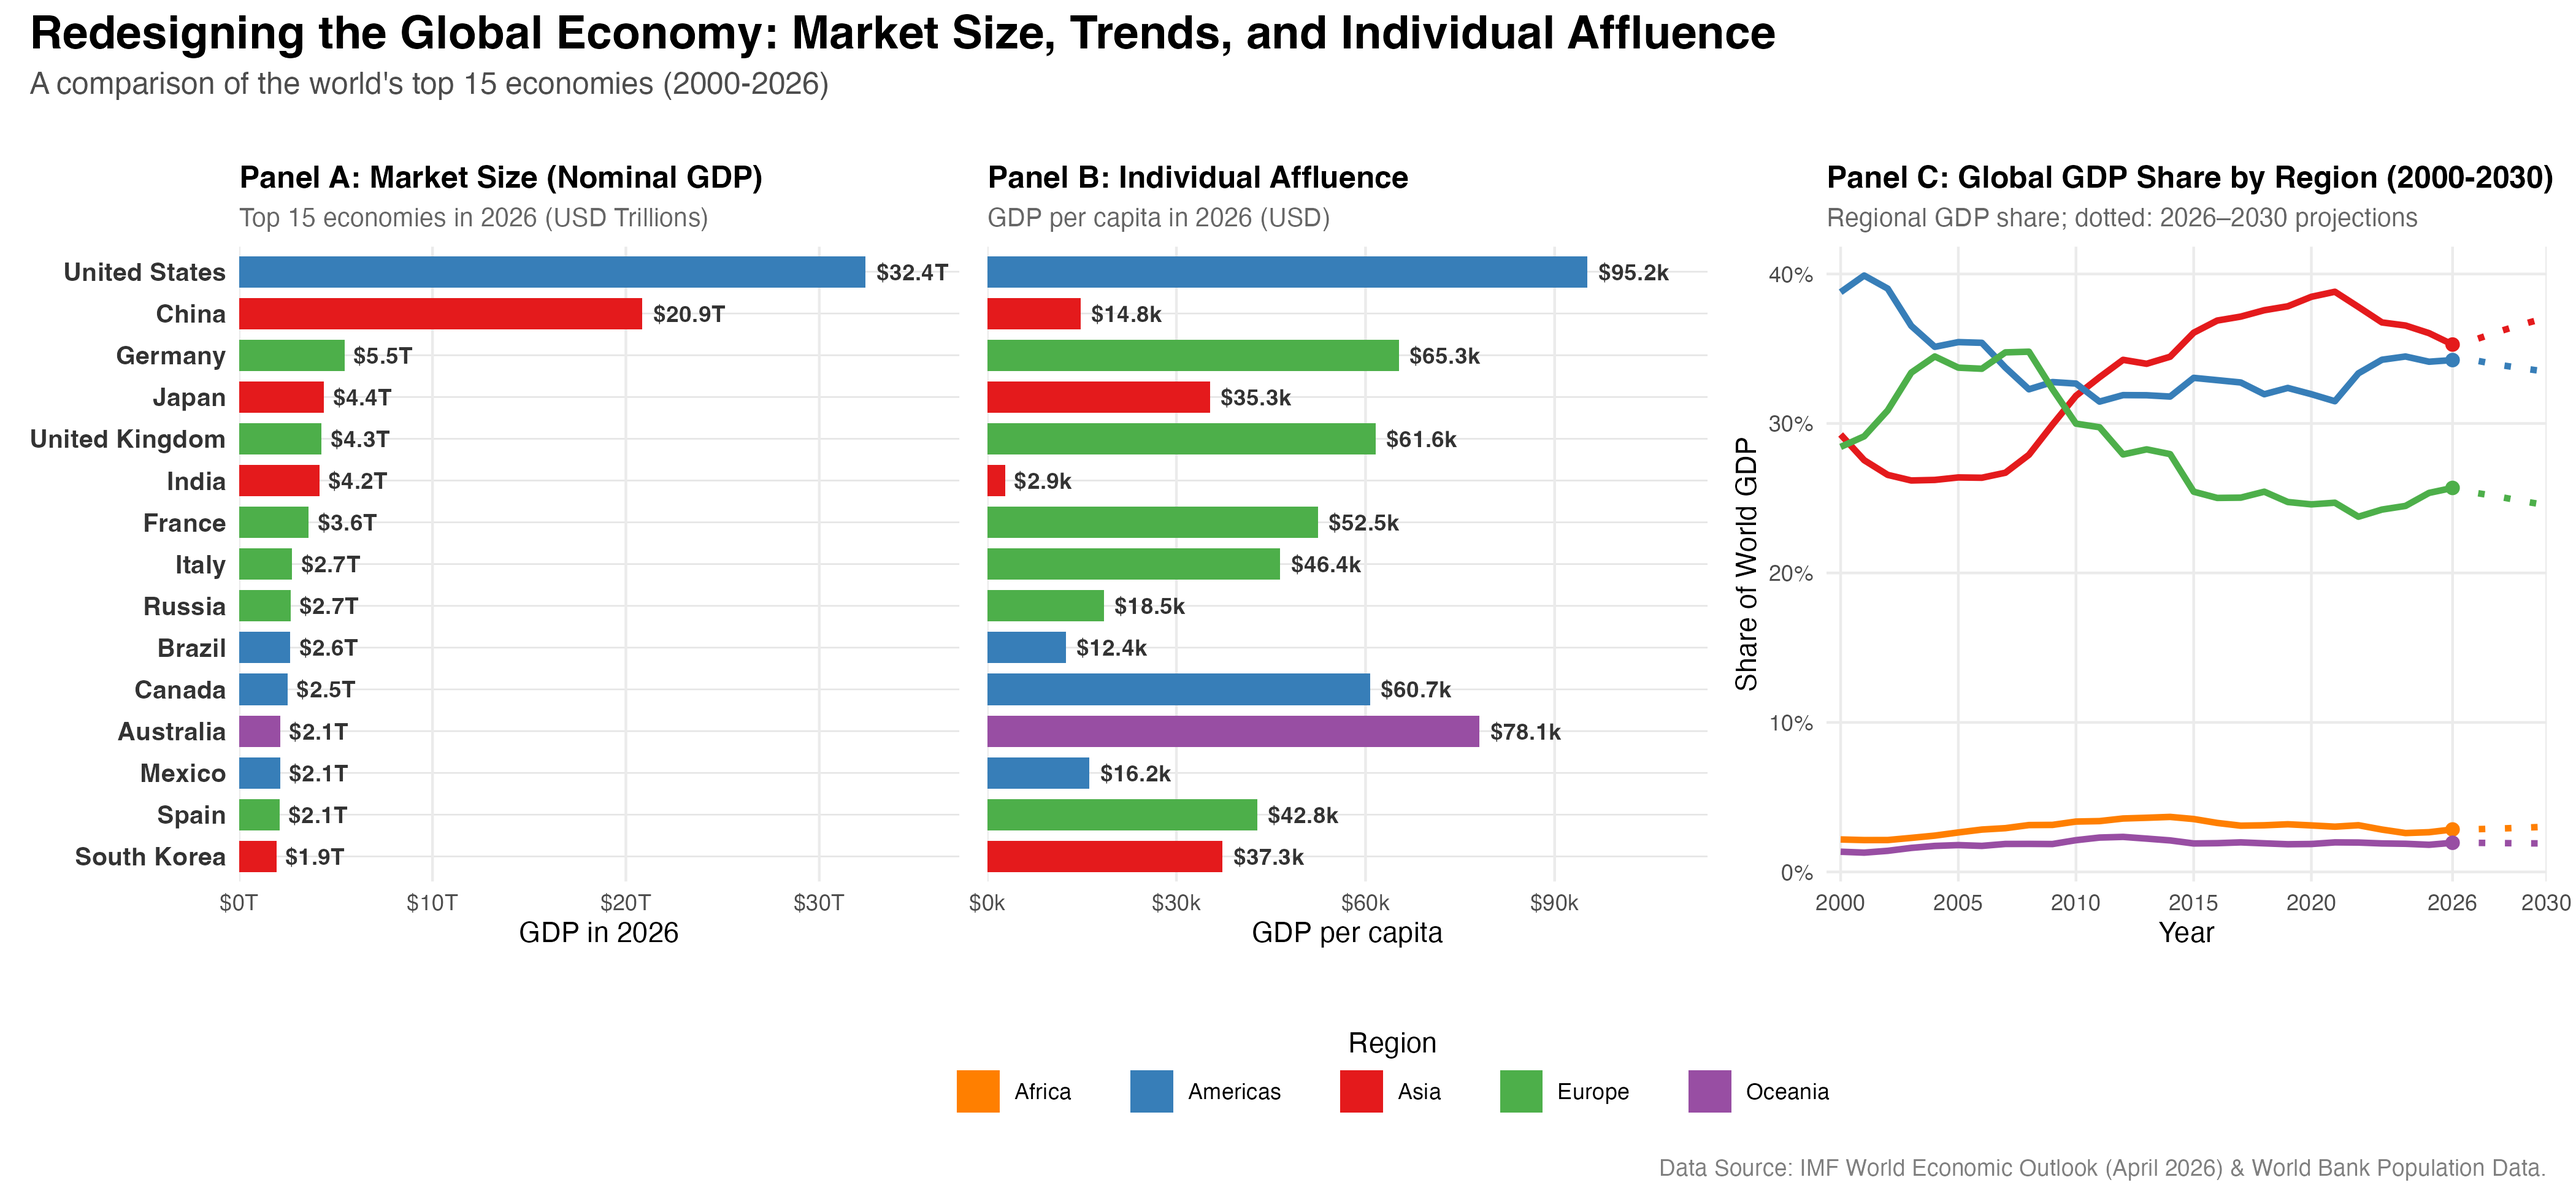
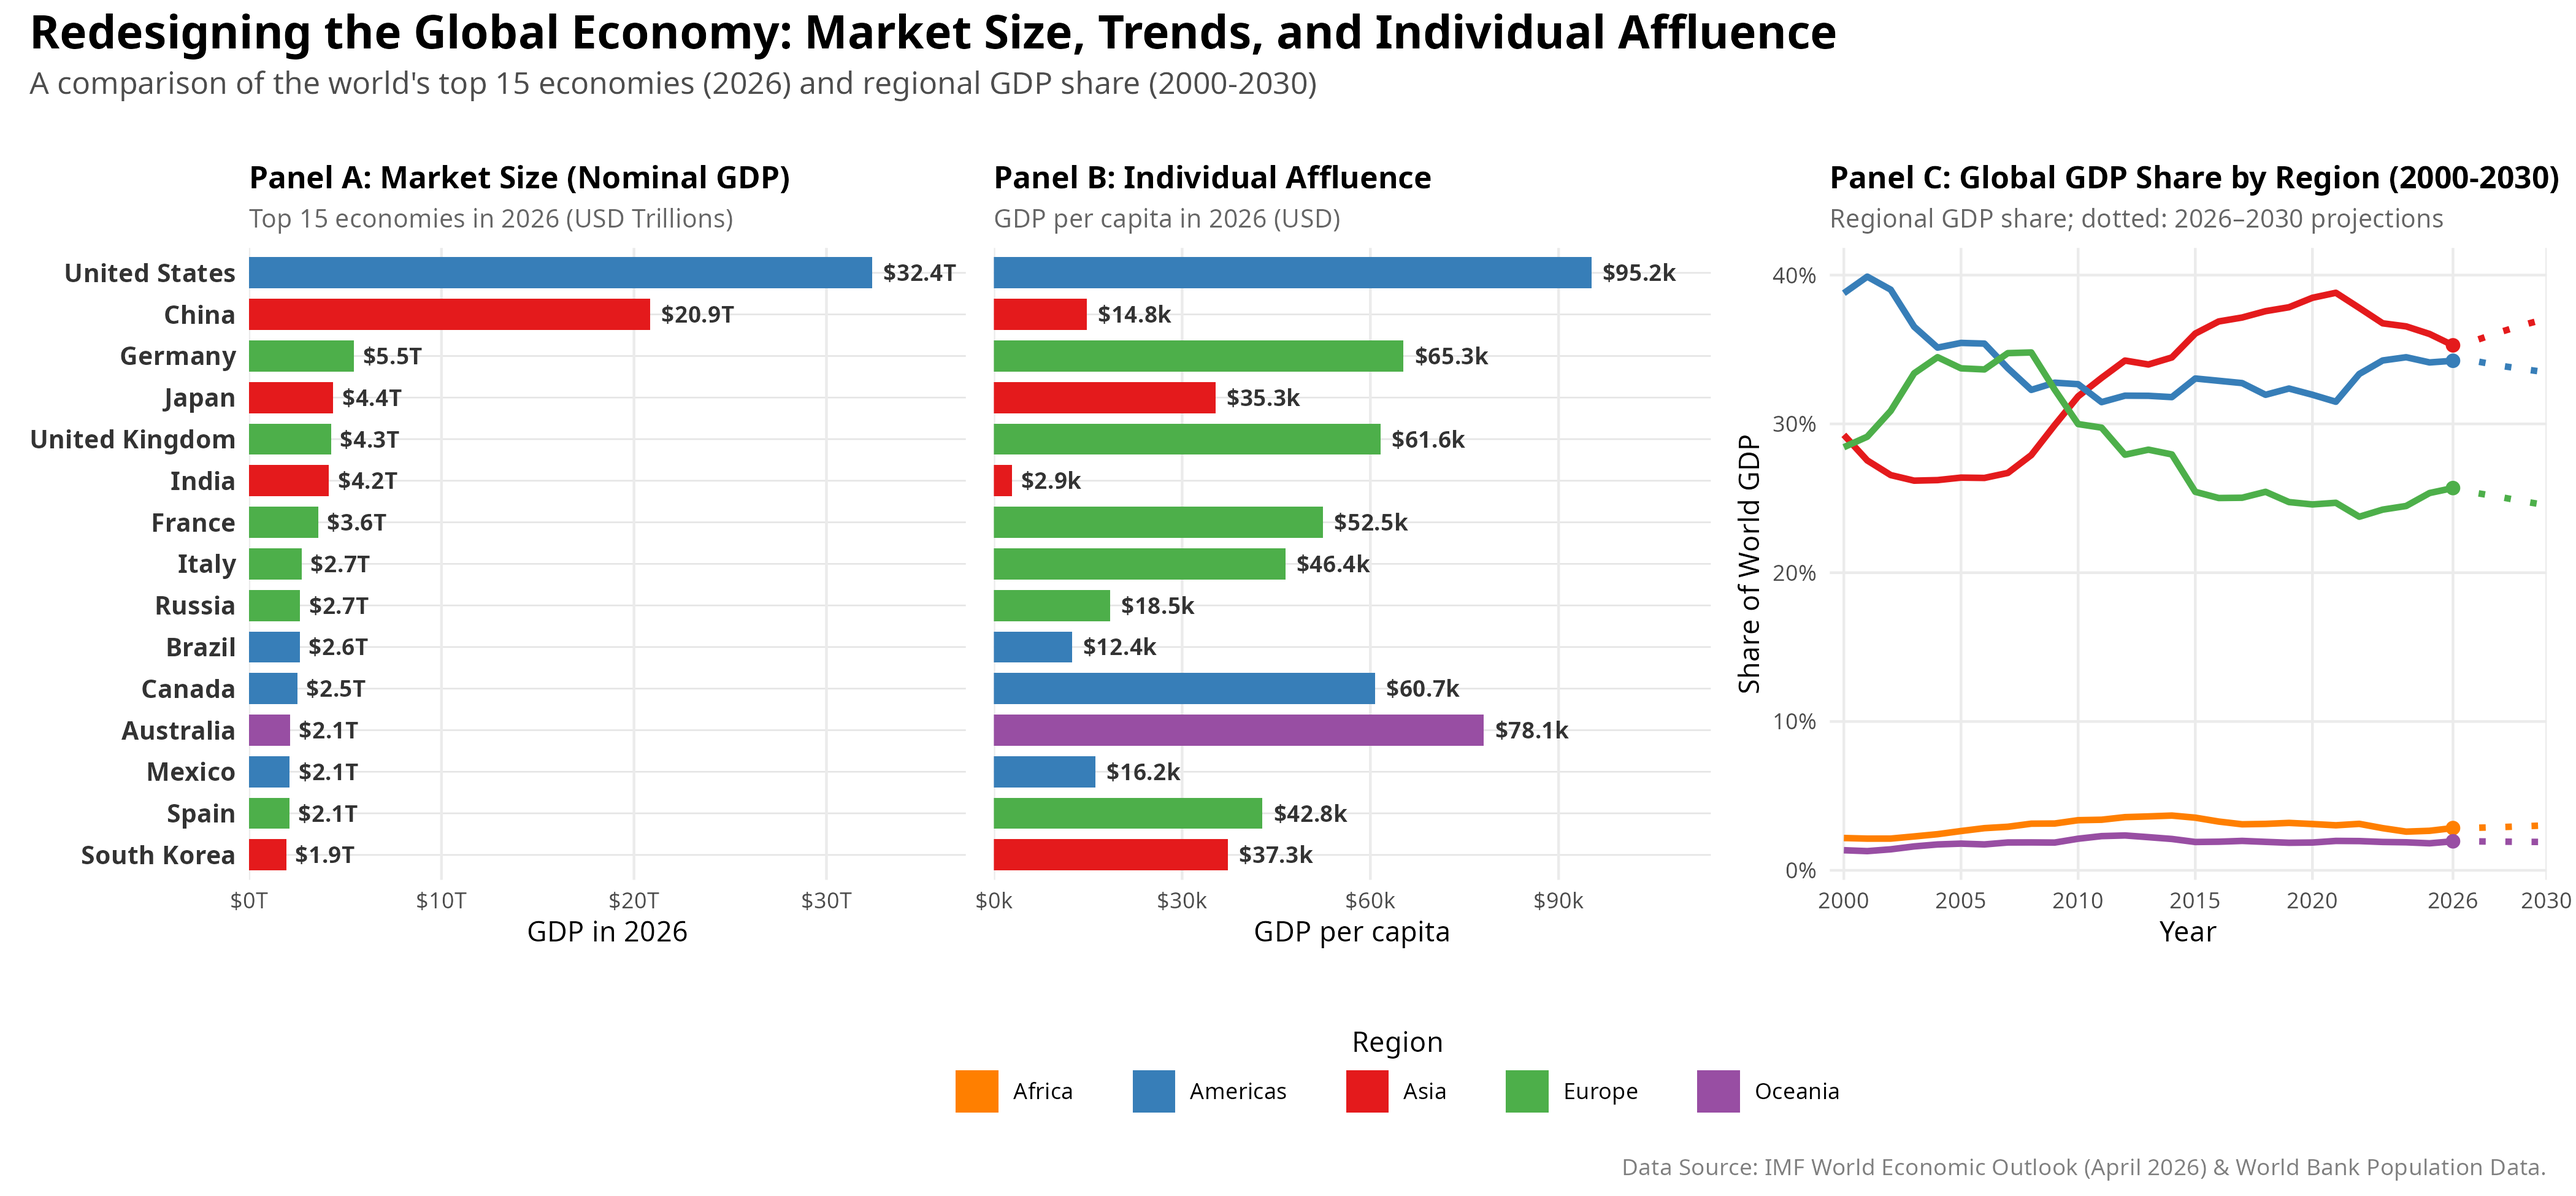
qmd update

diff --git a/gdp_redesign.html b/gdp_redesign.html
@@ -2,7 +2,7 @@
 <html xmlns="http://www.w3.org/1999/xhtml" lang="en" xml:lang="en"><head>
 
 <meta charset="utf-8">
-<meta name="generator" content="quarto-1.9.37">
+<meta name="generator" content="quarto-1.9.38">
 
 <meta name="viewport" content="width=device-width, initial-scale=1.0, user-scalable=yes">
 
@@ -74,10 +74,10 @@ pre > code.sourceCode > span > a:first-child::before { text-decoration: underlin
 <script src="gdp_redesign_files/libs/quarto-html/tippy.umd.min.js"></script>
 <script src="gdp_redesign_files/libs/quarto-html/anchor.min.js"></script>
 <link href="gdp_redesign_files/libs/quarto-html/tippy.css" rel="stylesheet">
-<link href="gdp_redesign_files/libs/quarto-html/quarto-syntax-highlighting-7f8f88aac4f3542376d5c11b86a4c14d.css" rel="stylesheet" id="quarto-text-highlighting-styles">
+<link href="gdp_redesign_files/libs/quarto-html/quarto-syntax-highlighting-15634bcf2e68342d4ad2dfa704d543f6.css" rel="stylesheet" id="quarto-text-highlighting-styles">
 <script src="gdp_redesign_files/libs/bootstrap/bootstrap.min.js"></script>
 <link href="gdp_redesign_files/libs/bootstrap/bootstrap-icons.css" rel="stylesheet">
-<link href="gdp_redesign_files/libs/bootstrap/bootstrap-138a6193a3bd40baf1e627da441a4734.min.css" rel="stylesheet" append-hash="true" id="quarto-bootstrap" data-mode="light">
+<link href="gdp_redesign_files/libs/bootstrap/bootstrap-efbb37e9afcc02144ebbc7afd12a776f.min.css" rel="stylesheet" append-hash="true" id="quarto-bootstrap" data-mode="light">
 <link href="gdp_redesign_files/libs/pagedtable-1.1/css/pagedtable.css" rel="stylesheet">
 <script src="gdp_redesign_files/libs/pagedtable-1.1/js/pagedtable.js"></script>
 
@@ -200,13 +200,13 @@ pre > code.sourceCode > span > a:first-child::before { text-decoration: underlin
 <li>Distinct colour palette for each region</li>
 <li>Standardized units in USD trillions</li>
 </ul></li>
-<li><strong>Core Insight:</strong> A higher nominal GDP does not automatically correlate to a higher GDP per capita. Massive market scale (e.g., China or India) often masks lower individual affluence due to population size, while smaller total economies (e.g., Switzerland or Australia) frequently lead in individual prosperity.</li>
+<li><strong>Core Insight:</strong> A higher nominal GDP does not automatically correlate to a higher GDP per capita. Massive market scale (e.g., China or India) often masks lower individual affluence due to population size, while smaller total economies (e.g., Canada or Australia) frequently lead in individual prosperity.</li>
 <li><strong>Design Rationale:</strong>
 <ul>
 <li><strong>Multi-Panel Layout:</strong> Three panels (total GDP, GDP per capita, regional trends) allow simultaneous comparison of market size, prosperity, and structural shifts.</li>
 <li><strong>Symmetric Horizontal Bars:</strong> Aligned side-by-side to allow direct, eye-movement-only comparison of total GDP (market size) against GDP per capita (prosperity) for the exact same country rows.</li>
-<li><strong>Direct-Labeled Line Chart:</strong> Illustrates the global regional shifts from 2016 to 2026, highlighting the dominant scale of Asia’s aggregate economy without legend-lookup clutter.</li>
-<li><strong>Unified Region Colors:</strong> A cohesive color-blind-friendly palette links regions across all bar, and line charts.</li>
+<li><strong>Direct-Labeled Line Chart:</strong> Illustrates the global regional shifts from 2000 to 2026, with forecasts extending to 2030, highlighting the dominant scale of Asia’s aggregate economy without legend-lookup clutter.</li>
+<li><strong>Unified Region Colors:</strong> A palette links regions across all bar, and line charts.</li>
 </ul></li>
 </ul>
 </section>
@@ -419,7 +419,7 @@ pre > code.sourceCode > span > a:first-child::before { text-decoration: underlin
 </section>
 <section id="panel-a-market-size-total-gdp" class="level2" data-number="6.3">
 <h2 data-number="6.3" class="anchored" data-anchor-id="panel-a-market-size-total-gdp"><span class="header-section-number">6.3</span> Panel A: Market Size (Total GDP)</h2>
-<p>The United States and China dominate the global landscape, together accounting for nearly half of the top 15’s total output. While the US maintains the top position at $32.4T, China follows closely at $20.9T, with a significant drop-off to the next tier of economies like Germany and Japan.</p>
+<p>The United States and China dominate the global landscape. While the US maintains the top position at $32.4T, China follows closely at $20.9T, with a significant drop-off to the next tier of economies like Germany and Japan.</p>
 <div class="cell">
 <details open="" class="code-fold">
 <summary>Code</summary>
@@ -514,7 +514,7 @@ pre > code.sourceCode > span > a:first-child::before { text-decoration: underlin
 </section>
 <section id="panel-c-regional-gdp-share-trends" class="level2" data-number="6.5">
 <h2 data-number="6.5" class="anchored" data-anchor-id="panel-c-regional-gdp-share-trends"><span class="header-section-number">6.5</span> Panel C: Regional GDP Share Trends</h2>
-<p>The “Shift to Asia” is most evident when examining regional shares over time. Since 2000, Asia’s share of global GDP has risen from under 20% to over 30%, surpassing both the Americas and Europe. This structural transformation underscores the migration of global economic gravity toward the East.</p>
+<p>The “Shift to Asia” is most evident when examining regional shares over time. Since 2000, Asia’s share of global GDP has risen, surpassing both the Americas and Europe. This structural transformation underscores the migration of global economic gravity toward the East.</p>
 <div class="cell">
 <details open="" class="code-fold">
 <summary>Code</summary>
@@ -615,7 +615,7 @@ pre > code.sourceCode > span > a:first-child::before { text-decoration: underlin
 <span id="cb14-34"><a href="#cb14-34" aria-hidden="true" tabindex="-1"></a>  ) <span class="sc">+</span></span>
 <span id="cb14-35"><a href="#cb14-35" aria-hidden="true" tabindex="-1"></a>  <span class="fu">plot_annotation</span>(</span>
 <span id="cb14-36"><a href="#cb14-36" aria-hidden="true" tabindex="-1"></a>    <span class="at">title =</span> <span class="st">"Redesigning the Global Economy: Market Size, Trends, and Individual Affluence"</span>,</span>
-<span id="cb14-37"><a href="#cb14-37" aria-hidden="true" tabindex="-1"></a>    <span class="at">subtitle =</span> <span class="st">"A comparison of the world's top 15 economies (2000-2026)"</span>,</span>
+<span id="cb14-37"><a href="#cb14-37" aria-hidden="true" tabindex="-1"></a>    <span class="at">subtitle =</span> <span class="st">"A comparison of the world's top 15 economies (2026) and regional GDP share (2000-2030)"</span>,</span>
 <span id="cb14-38"><a href="#cb14-38" aria-hidden="true" tabindex="-1"></a>    <span class="at">caption =</span> <span class="st">"Data Source: IMF World Economic Outlook (April 2026) &amp; World Bank Population Data."</span>,</span>
 <span id="cb14-39"><a href="#cb14-39" aria-hidden="true" tabindex="-1"></a>    <span class="at">theme =</span> <span class="fu">theme</span>(</span>
 <span id="cb14-40"><a href="#cb14-40" aria-hidden="true" tabindex="-1"></a>      <span class="at">plot.title =</span> <span class="fu">element_text</span>(</span>
